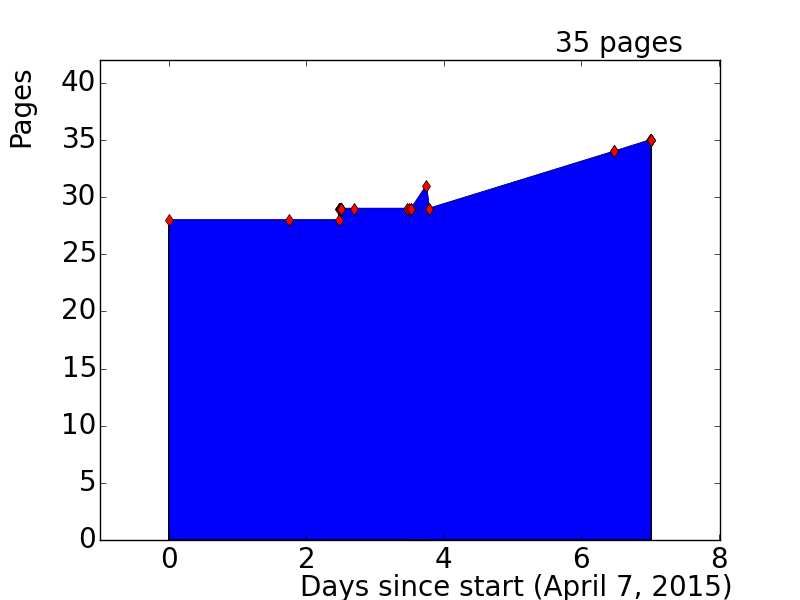
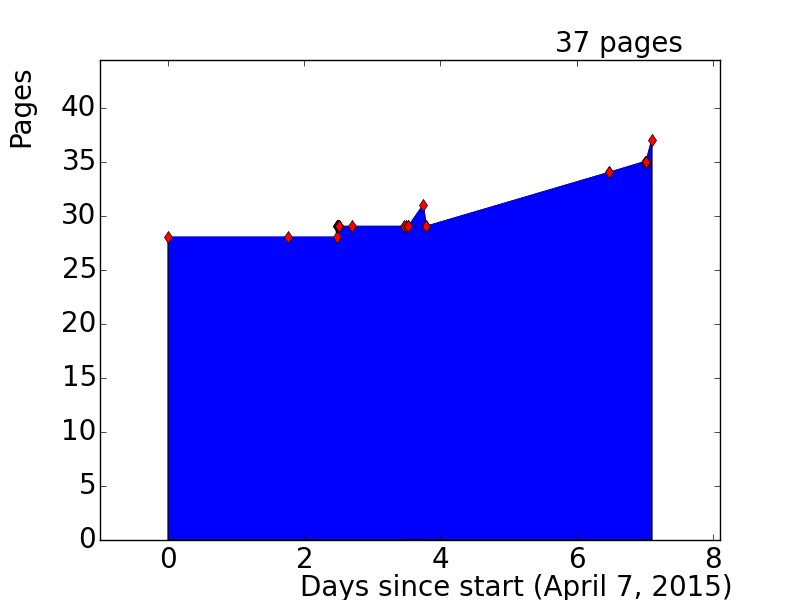
More LHC

diff --git a/ch3-experiment.tex b/ch3-experiment.tex
@@ -14,7 +14,24 @@ The LHC project was approved in 1994 by the CERN Council, and construction proce
 
 Proton-proton collisions at a center-of-mass energy of $\sqrt{s}=7~\mbox{TeV}$ commenced in early 2010. The LHC delivered an integrated luminosity of $\int L dt=48.1~\mbox{pb}^{-1}$ to the ATLAS detector in 2010, and $\int L dt=5.46~\mbox{fb}^{-1}$ in 2011. In 2012, the collision energy was increased to $\sqrt{s}=8~\mbox{TeV}$, and a dataset of $\int L dt=22.8~\mbox{fb}^{-1}$ was delivered. 
 
+\subsection{Accelerator Components}
+The primary devices used for acceleration are synchrotrons, made up of a variety of magnets and radio frequency (RF) cavities. The magnets are used to manipulate the particle beams: dipole magnets are used for bending the beams in a circle and for steering the beams down transfer lines between the accelerators, while quadrupole and higher moment magnets are used to focus the beams. RF cavities are metallic structures used for particle acceleration. An example of an LHC RF cavity is shown in figure~\ref{fig:rf-cavity}. The RF cavities are driven by a power source at their resonant frequency, creating an oscillating electromagnetic field inside the structure. The frequency of the RF cavities is matched to the rotation frequency of the particle beams.
+
+The RF oscillations result in the particle beam bunching into so-called RF buckets, shown schematically in figure~\ref{fig:RF-bucket}; the center of the bucket corresponds to particles with the reference energy (determined by the magnets) which experience no force in the RF cavities. During \emph{flat-top} operation, where the particle are held at fixed energy in the synchrotron, particles at the center of the RF bucket remain stationary at that point (neglecting energy losses due to synchrotron radiation), while nearby particles oscillate around the fixed point. During a \emph{ramp}, where particles are accelerated, the magnetic fields of the dipoles are slowly increased, shifting the RF bucket and causing the particle bunches to fall on the accelerating edge of the electric field oscillations. 
+
+\begin{figure}[htbp]
+	\centering
+	\resizebox{0.5\textwidth}{!}{\includegraphics{figures/ch3-experiment/LHC_RF_buckets}}
+	\caption{Schematic picture of an RF bucket. Particles at the center of the RF bucket experience no acceleration}
+	\label{fig:RF-bucket}
+\end{figure}
+
+
+
 \subsection{The Accelerator Complex}
+
+\underline{\textbf{Injection Chain}}
+
 \begin{figure}[htbp]
 	\centering
 	\resizebox{3.5in}{!}{\includegraphics{figures/ch3-experiment/converted/LHC_accelerator_complex.png}}
@@ -25,17 +42,23 @@ Proton-proton collisions at a center-of-mass energy of $\sqrt{s}=7~\mbox{TeV}$ c
 
 The LHC itself is the last stage of a 4-part acceleration chain, shown in figure~\ref{fig:LHC-accelerator-complex}. A full description can be found at~\cite{Benedikt:2004wm}. The staged acceleration chain meets the stringent performance requirements of the LHC, namely providing up to 2808 proton bunches with a very small transverse emittance and controllable longitudinal emittance. 
 
-The primary devices making up the accelerators are radio frequency (RF) cavities and magnets. RF cavities are metallic structures used for particle acceleration. An example of an LHC RF cavity is shown in figure~\ref{fig:rf-cavity}. The RF cavities are driven by a power source, typically a klystron, at their resonant frequency, creating an oscillating electromagnetic field inside the structure. Proton bunches synchronized with the oscillation of the electic fields are accelerated down the cavity. 
-% Talk about the bunch spacing here.
-
-A variety of types of magnet are used to manipulate the proton beams. Dipole magnets, such as that shown in figure~\ref{fig:LHC-dipole}, provide the centripetal force that bends the beams in a circle. Quadrupole and higher order magnets focus the beams.
-
 Protons are produced from hydrogen gas using a duoplasmatron source, which strips electrons from protons in a high electric field. After passing through a $90~\mbox{kV}$ pre-injector, a radio frequency quadrupole (RFQ) focuses and accelerates the protons to $750~\mbox{kV}$. A linear accelerator (LINAC2) then accelerates the protons to $50~\mbox{MeV}$ using RF cavities. The protons then pass through an $80~\mbox{m}$-long transfer line into the the Proton Synchrotron Booster (PSB) and Proton Synchrotron (PS). 
 
-The PSB consists of four stacked circular synchrotrons, $157~\mbox{m}$ in circumference, and accelerates the protons to $1.4 \GeV$. The use of four separate rings mitigates the space charge effects caused by the repulsion of protons within a bunch, which scale as $N_b/(\beta\gamma^2)$, where $N_b$ is the number of protons per bunch. The protons are then injected into single-ring PS, where the higher injection energy reduces the space charge effect. The PS accelerates the beams to $25 \GeV$, and also bunches the protons in preparation for injection into the LHC. A third synchrotron in the chain, the $7~\mbox{km}$-circumference Super Proton Synchrotron (SPS), accelerates the protons to $450 \GeV$, where they are injected into the LHC. 
+The PSB consists of four stacked circular synchrotrons, $157~\mbox{m}$ in circumference, and accelerates the protons to $1.4 \GeV$. The use of four separate rings mitigates the space charge effects caused by the repulsion of protons within a bunch, which scale as $N_b/(\beta\gamma^2)$, where $N_b$ is the number of protons per bunch. The protons are then injected into single-ring PS, where the higher injection energy reduces the space charge effect. The RF cavities of the PS, operating at several frequencies, accelerate the beams to $26 \GeV$, and also split the protons into the bunches eventually inject into the LHC. Nominally, this yields 72 bunches separated by 25~ns, but for Run I, 50~ns spacing was used instead. 
 
-The protons reach a momentum of $1.4~\mbox{GeV}/c$ in the Proton Synchrotron Booster (PSB), $25~\mbox{GeV}/c$ in the Proton Synchrotron (PS), and $450~\mbox{GeV}/c$ in the Super Proton Synchrotron (SPS), before being injected into the LHC for acceleration up to the final collision energy. 
+The protons are extracted from the PS at intervals of 3.6~s and injected into the third synchrotron in the chain, the $7~\mbox{km}$-circumference Super Proton Synchrotron (SPS). Immediately prior to extraction, the bunches are rotated by increasing the RF voltage, reducing the longitudinal emittance in order to ease capture in the SPS RF buckets, which have a frequency of $200~\mbox{MHz}$.  Up to four PS batches are injected per SPS cycle, after which the particle are accelerated at an average of $78~\GeV/s$ to the LHC injection energy of $450 \GeV$. Flat-top is maintained for about one second, during which the injection is prepared:
 
+\begin{itemize}
+	\item The magnets used for the beam extraction are ramped, safety checks are performed, and the SPS phase is tuned to match that of the LHC.
+	\item The bunch length is compressed using an RF voltage increase, as in the PS-SPS transfer.
+	\item The tails of the bunches are removed, down to $3$--$3.5\sigma$.
+\end{itemize}
+
+The SPS cycle takes 21.6 seconds, leading to a total LHC filling time of about nine minutes.
+
+\underline{\textbf{LHC Main Ring}}
+The LHC main ring accelerates protons from the injection energy of $450 \GeV$ to the collision energy, $3.5 \TeV$ or $4 \TeV$ for proton-proton collisions during Run I. 
+% Hardware: how many magnets? How many RF cavities? 400 MHz; bunch spacing of 50 ns.
 
 \subsection{Accelerator Parameters}
 From the experiments' point of view, there are two main parameters to optimize in order to maximize sensitivity to new physics: the collision energy, $\sqrt{s}$, and the integrated luminosity, $\int L dt$. The collision energy is limited to $\sqrt{s}=14~\mbox{TeV}$ by the bending power of the dipole magnets, which have a field strength of $8.73~\mbox{T}$; however, due to the faulty splice design mentioned above, the energy was limited to $\sqrt{s}=7-8~\mbox{TeV}$ in Run I. 
@@ -48,9 +71,9 @@ where $n_b$ is the number of colliding bunch pairs, $f_r=11245.5~\mbox{Hz}$ is t
 
 In general, a higher integrated luminosity is desired; however, a high number of simultaneous collisions, $\mu=L/n_b$, can degrade the performance of the detectors. 
 
-%\subsection{Interaction Regions}
+% Limiting factors. Why can't we get infinite luminosity?
 
-\subsection{Run I Performance}
+% Fill cycle: how to maximize luminosity accumulation over time.
 
 
 
@@ -76,7 +99,13 @@ ATLAS relies on two powerful superconducting magnets to bend the trajectories of
 
 \subsection{Data Acquisition}
 
-\subsection{Data Preparation/Performance}
+
+
+
+\section{Data Taking}
+\subsection{Performance during Run I}
+
+\subsection{Luminosity Measurement}
 
 
 \printbibliography

diff --git a/pages.md b/pages.md
@@ -29,3 +29,4 @@
 + [2015-04-14-00h26m18s] 35
 + [2015-04-14-00h27m13s] 35
 + [2015-04-14-00h30m29s] 35
++ [2015-04-14-02h31m44s] 37
